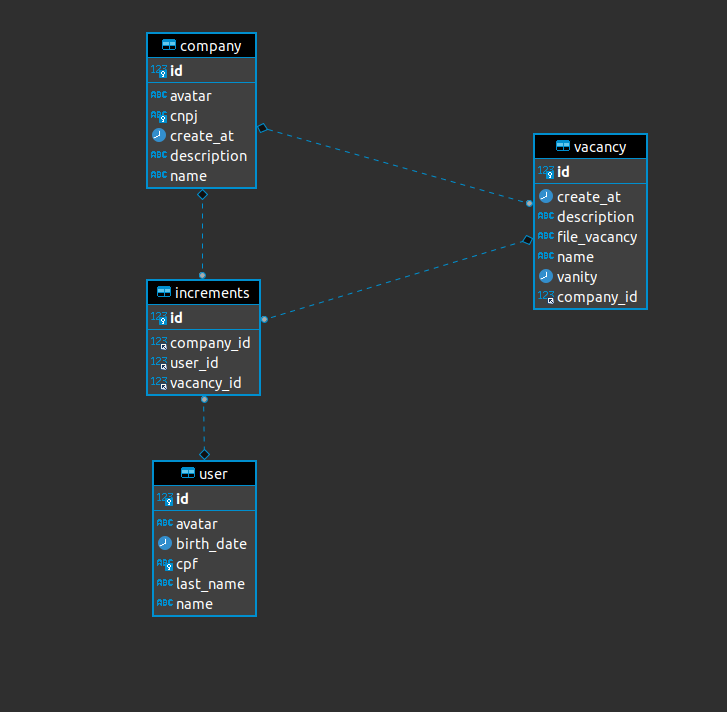
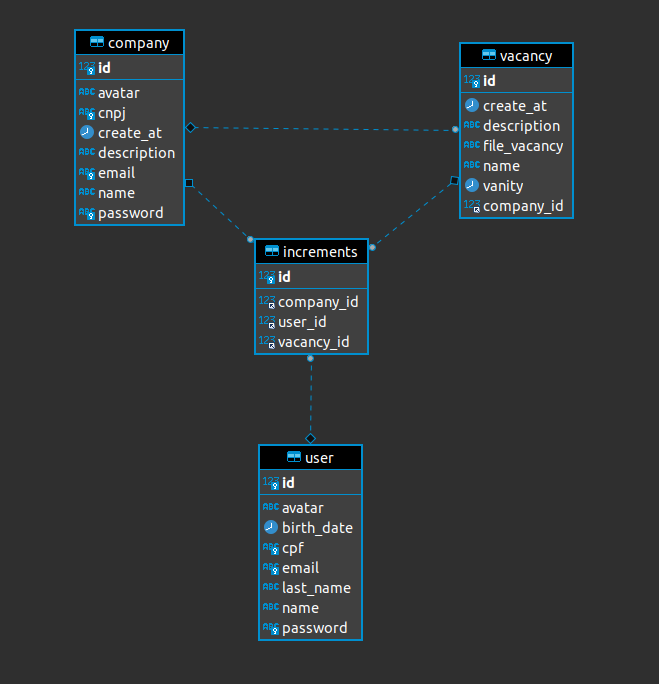
foi acrescentado o emaial e password nas tabelas user e company. Foi mudado tambem a imagen do banco

diff --git a/src/main/java/br/com/gestao/empregos/gestaoEmpregos/company/Company.java b/src/main/java/br/com/gestao/empregos/gestaoEmpregos/company/Company.java
@@ -15,6 +15,12 @@ public class Company {
     @Column(unique = true, nullable = false)
     private String cnpj;
 
+    @Column(unique = true, nullable = false)
+    private String email;
+
+    @Column(unique = true, nullable = false)
+    private String password;
+
     @Column (nullable = true)
     private String description;
 
@@ -23,7 +29,7 @@ public class Company {
 
     @Column(nullable = true)
     private String avatar;
-
+    
     public long getId() {
         return id;
     }
@@ -46,6 +52,22 @@ public class Company {
 
     public void setCnpj(String cnpj) {
         this.cnpj = cnpj;
+    }
+
+    public String getEmail() {
+        return email;
+    }
+
+    public void setEmail(String email) {
+        this.email = email;
+    }
+
+    public String getPassword() {
+        return password;
+    }
+
+    public void setPassword(String password) {
+        this.password = password;
     }
 
     public String getDescription() {
@@ -71,4 +93,5 @@ public class Company {
     public void setAvatar(String avatar) {
         this.avatar = avatar;
     }
+
 }

diff --git a/src/main/java/br/com/gestao/empregos/gestaoEmpregos/usuario/User.java b/src/main/java/br/com/gestao/empregos/gestaoEmpregos/usuario/User.java
@@ -19,6 +19,12 @@ public class User implements Serializable {
     @Column(unique = true, nullable = false)
     private String cpf;
 
+    @Column(unique = true, nullable = false)
+    private String email;
+
+    @Column(unique = true, nullable = false)
+    private String password;
+
     @Column(unique = false)
     private Date birthDate;
 
@@ -67,6 +73,14 @@ public class User implements Serializable {
 
     public String getAvatar() {
         return avatar;
+    }
+
+    public String getEmail() {
+        return email;
+    }
+
+    public String getPassword() {
+        return password;
     }
 
     public void setAvatar(String avatar) {
